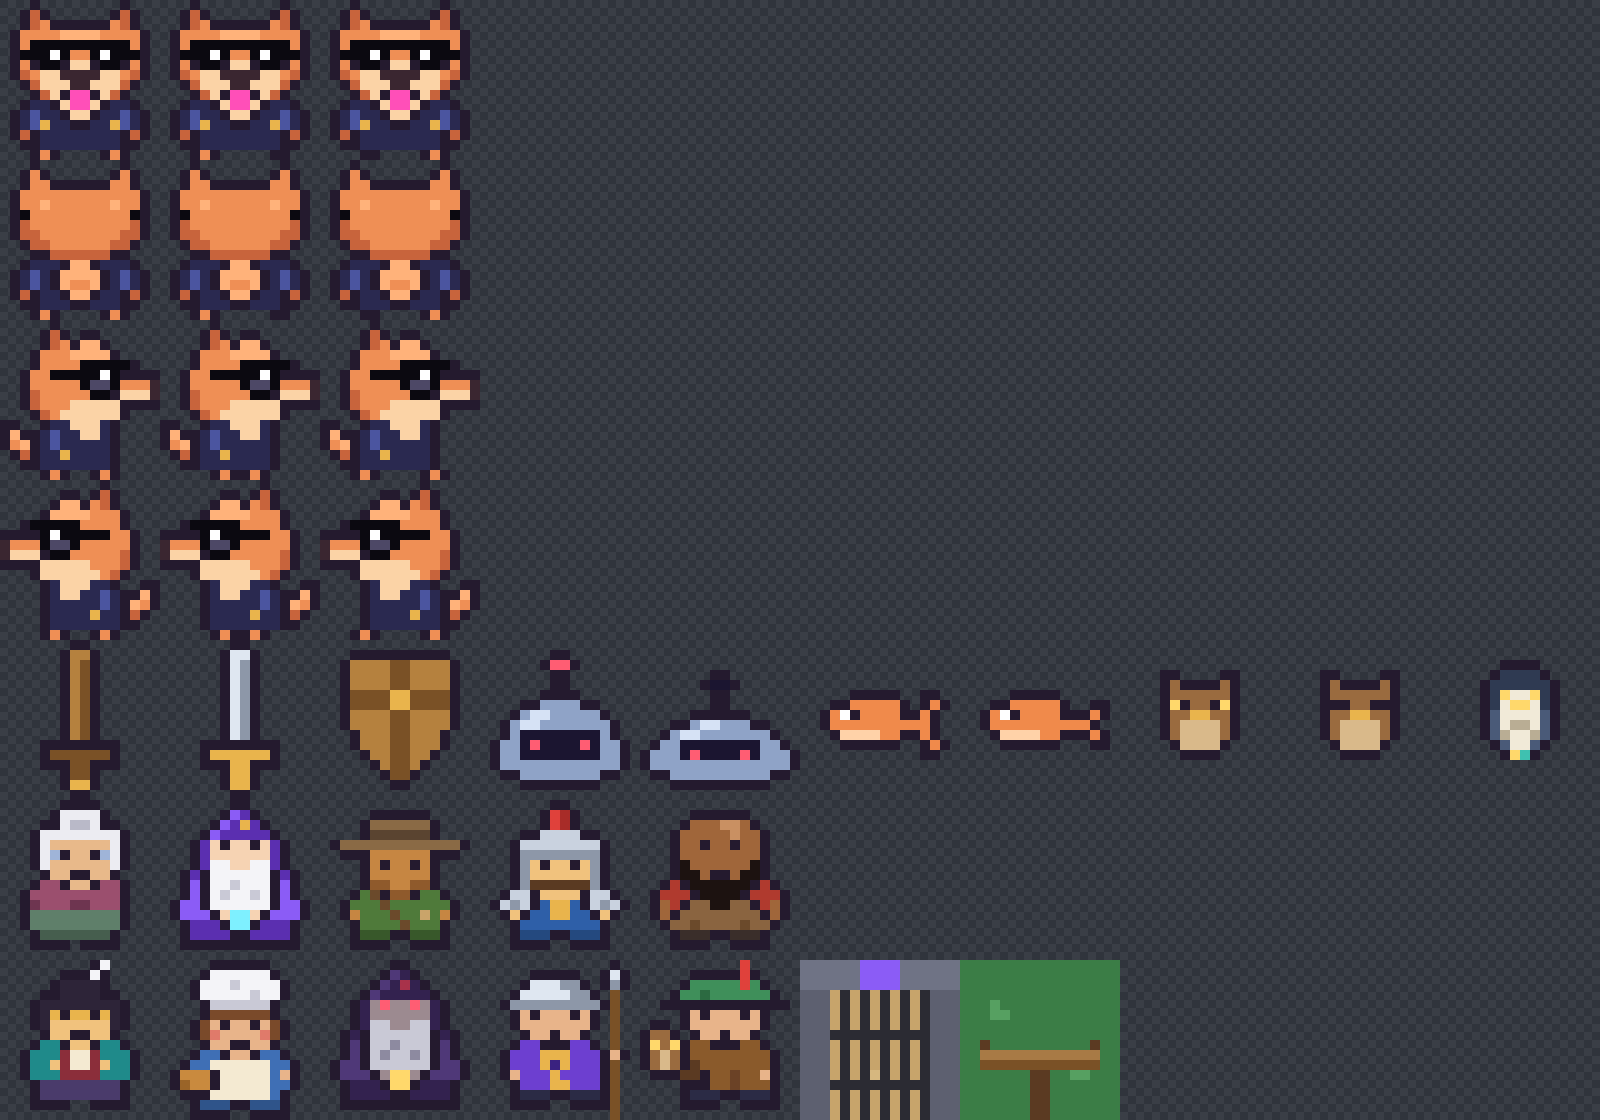
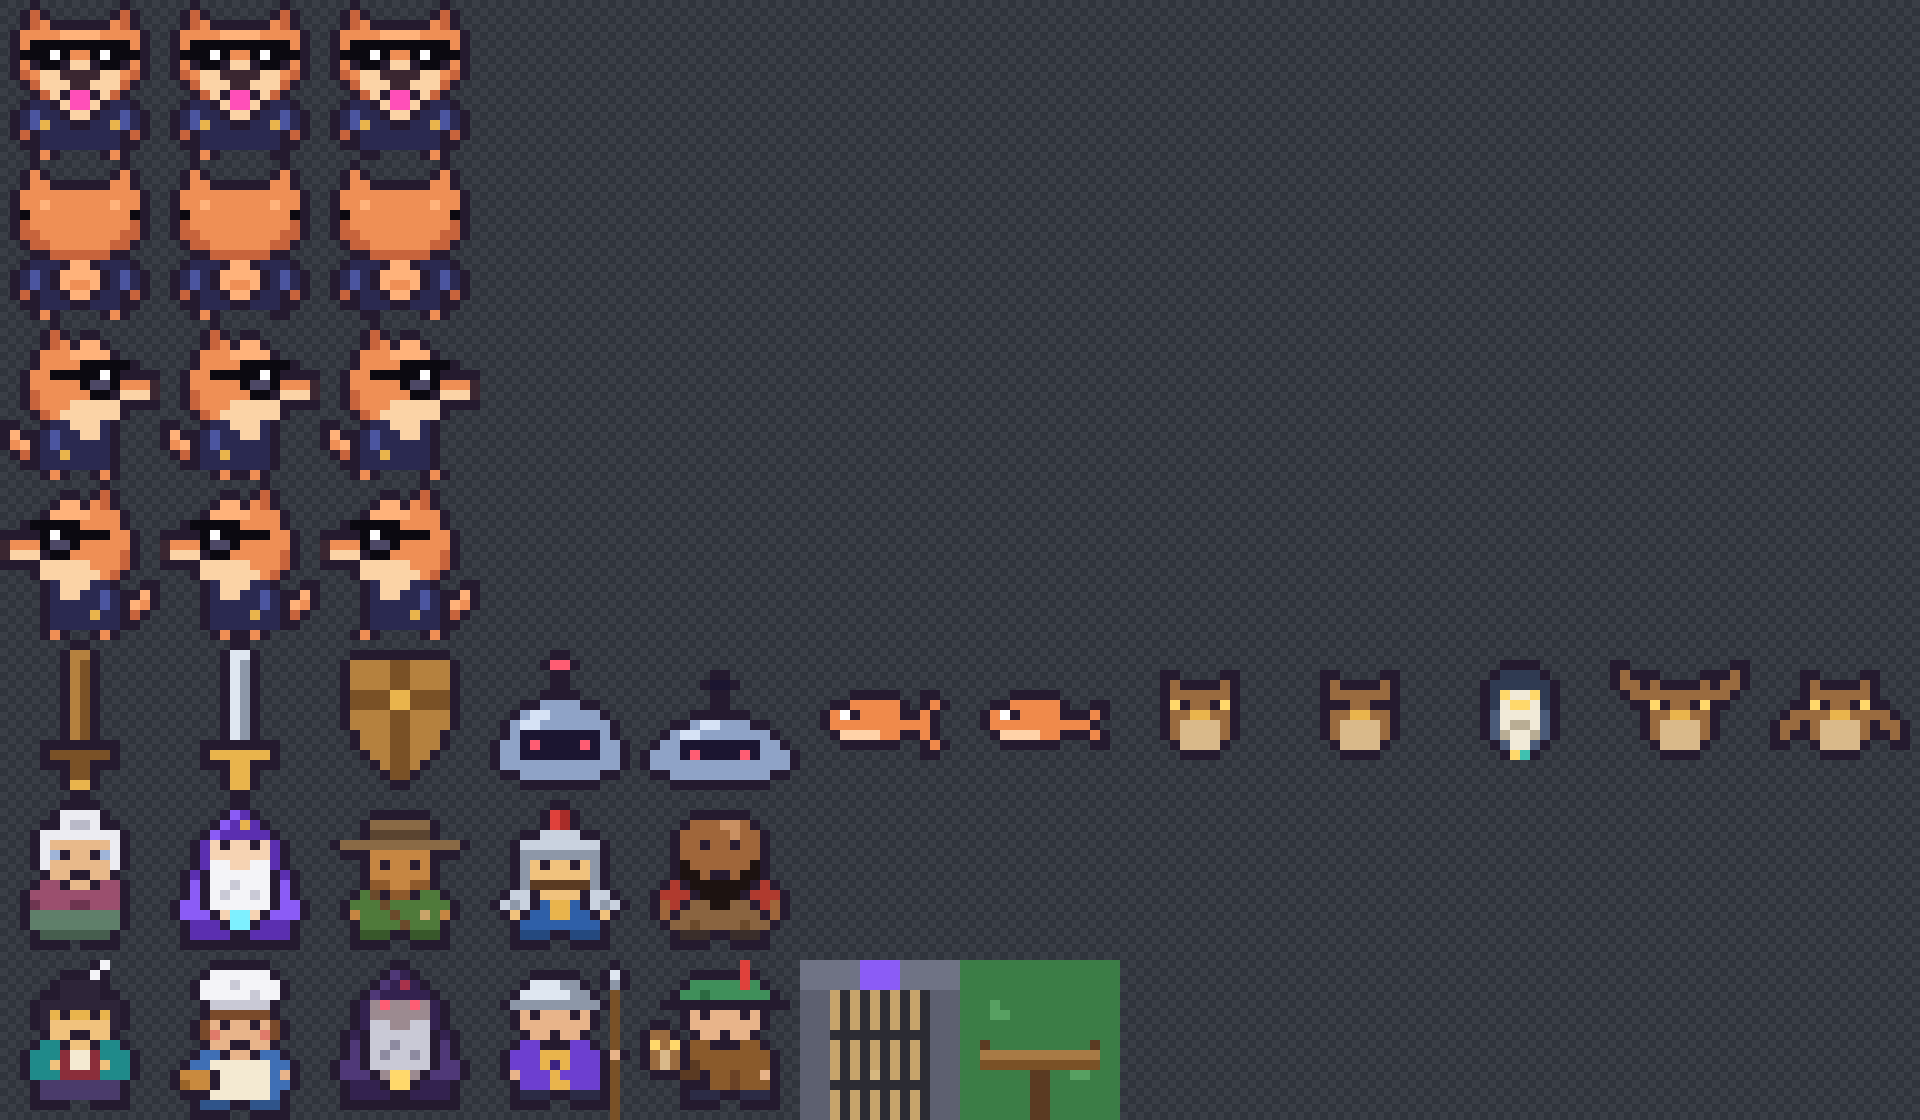
feat(game): the owl flaps, swoops and hoots on its way back
Two wing frames beat while the owl is in the air, its path curves out to
one side and back in from the other, and it calls from out of sight just
before it comes back into view.

Changed region(s): [[0.0, 0.0, 1.0, 1.0]]

diff --git a/app/src/game/scene.ts b/app/src/game/scene.ts
@@ -109,7 +109,7 @@ const SWING = { from: 100, to: -50, ms: 160 }
 /** What a player hears when the game has lost their session somewhere they could only be with one. */
 const LOST_SESSION = 'Something went wrong and your session was lost, so you start again in Hearth Village.'
 
-const ITEM = { swordWood: 0, swordSteel: 1, owl: 7, owlBlink: 8, falcon: 9 }
+const ITEM = { swordWood: 0, swordSteel: 1, owl: 7, owlBlink: 8, falcon: 9, owlWingsUp: 10, owlWingsDown: 11 }
 
 /** How long the owl's eyes stay shut, and the shortest and longest it waits between blinks. */
 const OWL_BLINK = { shut: 140, every: [2200, 6000] } as const
@@ -128,10 +128,13 @@ const PERCH_BAR = { y: 1 }
 
 /**
  * The owl's flights around a perch: how long it takes to hop on and to fly back to the dog's shoulder, how
- * high it arcs, how far sideways it drifts on its way off the screen, and how many tiles the dog walks
- * from the perch before the owl follows.
+ * high it arcs, how far sideways it ends up and how wide it swoops on its way off the screen, and how many
+ * tiles the dog walks from the perch before the owl follows.
  */
-const OWL_FLIGHT = { hopMs: 260, homeMs: 650, lift: 12, drift: 40, leash: 2 }
+const OWL_FLIGHT = { hopMs: 320, homeMs: 700, lift: 10, drift: 48, swoop: 46, leash: 2 }
+
+/** How long each beat of the owl's wings lasts while it flies. */
+const WINGBEAT_MS = 90
 
 /** Rows of the dog's frame left above the waterline while swimming: head and collar. */
 const SWIM_DEPTH = 11
@@ -372,6 +375,8 @@ export class KingdomScene extends Phaser.Scene {
   private owlPerch: Perch | undefined
   /** The perch the player last walked into, until they let go of the key or step away. */
   private bumpedPerch: Perch | undefined
+  /** The owl is in the air, beating its wings, so it doesn't blink. */
+  private owlFlapping = false
   /** The latest flight each bird was sent on, so an older one still under way gives up. */
   private flights = new Map<Phaser.GameObjects.Image, number>()
   /** The owl is off the dog's shoulder: flying an errand, or on a perch until the dog walks away. */
@@ -620,7 +625,8 @@ export class KingdomScene extends Phaser.Scene {
   }
 
   /**
-   * Moves a bird to a point in the game's pixels, in an arc `lift` pixels high. The point is asked for on
+   * Flies a bird to a point in the game's pixels. The path curves: it rises `lift` pixels and swings
+   * `sway` pixels to one side on the way, and the bird bobs with each wingbeat. The point is asked for on
    * every frame, so a bird can fly to the dog while the dog walks. Motion is opt-in: without it the bird is
    * simply there.
    */
@@ -628,7 +634,7 @@ export class KingdomScene extends Phaser.Scene {
     bird: Phaser.GameObjects.Image,
     to: () => { readonly x: number; readonly y: number },
     ms: number,
-    lift: number,
+    { lift = 0, sway = 0 }: { readonly lift?: number; readonly sway?: number } = {},
     onDone?: () => void,
   ) {
     // A newer flight takes over from one still under way, whose callbacks then do nothing.
@@ -636,12 +642,19 @@ export class KingdomScene extends Phaser.Scene {
     this.flights.set(bird, flight)
 
     const current = () => this.flights.get(bird) === flight
+    const isOwl = bird === this.owl
 
     const land = () => {
       if (!current()) return
       const end = to()
 
       bird.setPosition(end.x, end.y)
+
+      if (isOwl) {
+        this.owlFlapping = false
+        bird.setFrame(ITEM.owl)
+      }
+
       onDone?.()
     }
 
@@ -653,6 +666,9 @@ export class KingdomScene extends Phaser.Scene {
 
     const from = { x: bird.x, y: bird.y }
     const along = { t: 0 }
+    const started = this.time.now
+
+    if (isOwl) this.owlFlapping = true
 
     this.tweens.add({
       targets: along,
@@ -662,11 +678,17 @@ export class KingdomScene extends Phaser.Scene {
       onUpdate: () => {
         if (!current()) return
         const end = to()
+        const { t } = along
+        // A curve through a point above and to one side of the straight line, so the bird swoops.
+        const bend = 2 * (1 - t) * t
+        const beat = Math.floor((this.time.now - started) / WINGBEAT_MS)
 
         bird.setPosition(
-          from.x + (end.x - from.x) * along.t,
-          from.y + (end.y - from.y) * along.t - Math.sin(Math.PI * along.t) * lift,
+          from.x + (end.x - from.x) * t + bend * sway,
+          from.y + (end.y - from.y) * t - bend * lift * 2 + (beat % 2 === 0 ? 0 : 1),
         )
+
+        if (isOwl) bird.setFrame(beat % 2 === 0 ? ITEM.owlWingsUp : ITEM.owlWingsDown)
       },
       onComplete: land,
     })
@@ -685,7 +707,7 @@ export class KingdomScene extends Phaser.Scene {
 
     this.owlAt += 1
     sfx('flutter')
-    this.glide(this.owl, () => ({ x: center(next.x), y: center(next.y) }), OWL_SHY.ms, OWL_SHY.lift)
+    this.glide(this.owl, () => ({ x: center(next.x), y: center(next.y) }), OWL_SHY.ms, { lift: OWL_SHY.lift })
 
     quest.toast(
       this.owlTired()
@@ -723,9 +745,10 @@ export class KingdomScene extends Phaser.Scene {
       const top = this.cameras.main.worldView.y - T
       const away = { x: bar.x + OWL_FLIGHT.drift, y: Math.min(top, bar.y - T) }
 
-      this.glide(owl, () => away, FLIGHT_MS.out, 0)
+      // It swings out to one side as it climbs, and comes back in from the other.
+      this.glide(owl, () => away, FLIGHT_MS.out, { sway: -OWL_FLIGHT.swoop })
     } else if (phase === 'back') {
-      this.glide(owl, () => bar, FLIGHT_MS.back, OWL_FLIGHT.lift)
+      this.glide(owl, () => bar, FLIGHT_MS.back, { sway: OWL_FLIGHT.swoop })
     }
   }
 
@@ -749,7 +772,7 @@ export class KingdomScene extends Phaser.Scene {
 
     this.owlAloft = true
     this.owlPerch = perch
-    this.glide(this.owl, () => this.barOf(perch), OWL_FLIGHT.hopMs, OWL_FLIGHT.lift)
+    this.glide(this.owl, () => this.barOf(perch), OWL_FLIGHT.hopMs, { lift: OWL_FLIGHT.lift })
   }
 
   /**
@@ -770,7 +793,7 @@ export class KingdomScene extends Phaser.Scene {
       owl,
       () => ({ x: player.x + OWL_SEAT.x, y: player.y + OWL_SEAT.y }),
       OWL_FLIGHT.homeMs,
-      OWL_FLIGHT.lift,
+      { lift: OWL_FLIGHT.lift, sway: OWL_FLIGHT.lift },
       () => {
         this.owlAloft = false
       },
@@ -877,9 +900,11 @@ export class KingdomScene extends Phaser.Scene {
 
     const wait = () =>
       this.time.delayedCall(soonest + Math.random() * (latest - soonest), () => {
-        this.owl?.setFrame(ITEM.owlBlink)
+        if (!this.owlFlapping) this.owl?.setFrame(ITEM.owlBlink)
+
         this.time.delayedCall(OWL_BLINK.shut, () => {
-          this.owl?.setFrame(ITEM.owl)
+          if (!this.owlFlapping) this.owl?.setFrame(ITEM.owl)
+
           wait()
         })
       })

diff --git a/app/src/game/owl-story.ts b/app/src/game/owl-story.ts
@@ -435,11 +435,11 @@ const DONE: Partial<Record<OwlTool, () => void>> = {
   },
 }
 
+const flies = () => matchMedia('(prefers-reduced-motion: no-preference)').matches
+
 /** Waits out a part of the owl's flight, for players who have motion on; with it off the owl doesn't fly. */
 const watch = (ms: number) =>
-  matchMedia('(prefers-reduced-motion: no-preference)').matches
-    ? new Promise<void>((resolve) => setTimeout(resolve, ms))
-    : Promise.resolve()
+  flies() ? new Promise<void>((resolve) => setTimeout(resolve, ms)) : Promise.resolve()
 
 /**
  * Sends the owl on a perch's errand, which is one tool call, and tells the story of how it went. The owl
@@ -449,6 +449,7 @@ const watch = (ms: number) =>
  */
 export async function flyOwl(tool: OwlTool) {
   const id = identity()
+  const flew = flies()
   sfx('hoot')
   quest.perchPhase('out')
   const away = watch(FLIGHT_MS.out + FLIGHT_MS.away)
@@ -463,6 +464,12 @@ export async function flyOwl(tool: OwlTool) {
 
   const flight = sent.value
   const { outcome } = flight
+
+  // The owl calls from out of sight just before it comes back into view. With motion off it never left.
+  if (flew) {
+    sfx('hoot')
+    await watch(FLIGHT_MS.call)
+  }
 
   quest.perchPhase('back')
   await watch(FLIGHT_MS.back)

diff --git a/app/src/game/perch.ts b/app/src/game/perch.ts
@@ -47,7 +47,7 @@ export type PerchPhase = 'asking' | 'out' | 'back' | 'done'
 
 /**
  * How long each part of the owl's flight takes to watch, in milliseconds, for players who have motion on:
- * flying off the screen, staying away while the Aviary answers, and flying back to the perch. The request
- * is sent as the owl sets off.
+ * flying off the screen, staying away while the Aviary answers, the moment between its call from out of
+ * sight and its coming back into view, and flying back to the perch. The request is sent as the owl sets off.
  */
-export const FLIGHT_MS = { out: 900, away: 1200, back: 800 } as const
+export const FLIGHT_MS = { out: 1000, away: 1100, call: 400, back: 900 } as const

diff --git a/app/src/game/sheets.ts b/app/src/game/sheets.ts
@@ -1,7 +1,7 @@
 // Generated by art/sprites.mjs; don't edit. Each URL carries a hash of the file's contents.
 export const SHEETS = {
   dog: '/assets/dog.png?v=0be57c5f01',
-  items: '/assets/items.png?v=4431e1159b',
+  items: '/assets/items.png?v=f0958e86d9',
   npcs: '/assets/npcs.png?v=6cc6f4d8f6',
   tiles: '/assets/tiles.png?v=7f01cebc24',
   splash: '/assets/splash.png?v=40d2470162',
